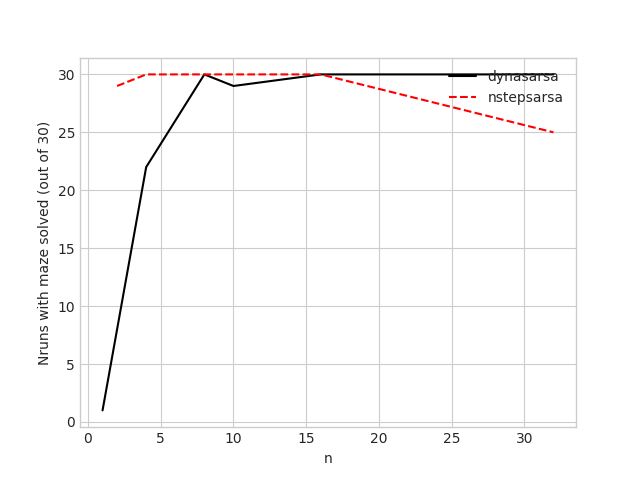
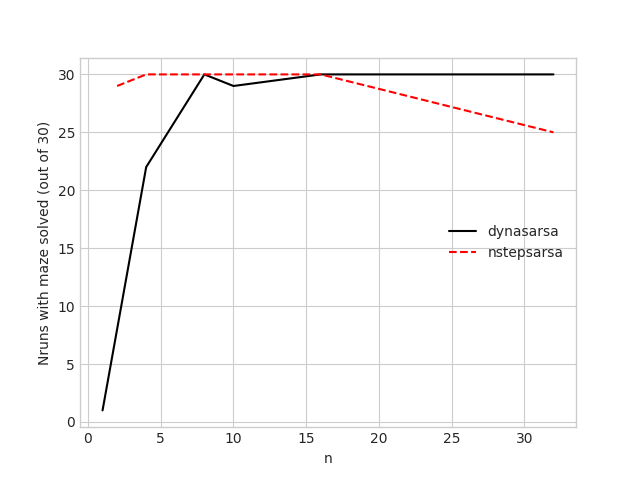
fixed legend loc for plot nrunsolve v n and file naming error

Changed region(s): [[0.7188, 0.4688, 0.875, 0.5625], [0.7188, 0.1562, 0.875, 0.2188]]

diff --git a/experiments/dynasarsa_vs_nstepsarsa/n/plot.py b/experiments/dynasarsa_vs_nstepsarsa/n/plot.py
@@ -95,7 +95,7 @@ legend_loc= 'center right'
 #best        upper right        upper left        lower left        lower right        right
 #center left        center right        lower center        upper center        center
 figurefile_header= "plots/ncompare_" 
-figure_file= figurefile_header + "stderror_" + metric + ".png"
+figure_file= figurefile_header + metric + ".png"
 col_names = ['method', 'run', 'episode', 'n', 'terminal_timestep', 'G_direct_mean', 'G_direct_std', 'G_direct_n',\
             'G_indirect_mean', 'G_indirect_std', 'G_indirect_n', 'dQ_direct_mean', 'dQ_direct_std', \
             'dQ_indirect_mean', 'dQ_indirect_std', 'alpha', 'epsilon', 'solution_episode', 'decay_multiplier']
